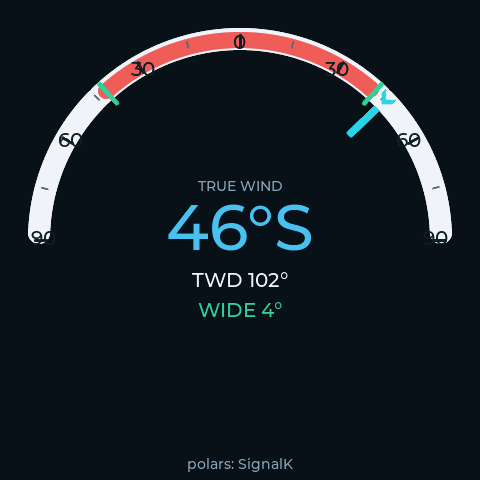
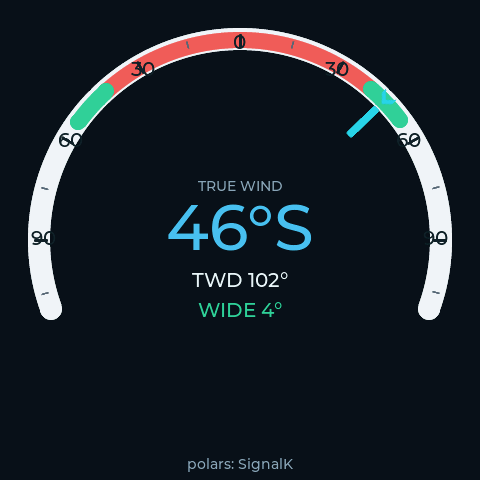
feat(wind-steer): 220-deg working-zone arc, target sectors, downwind verified
Implement the deferred refinements:
- Widen the arc to ~220 deg (past the beam each side) so it zooms into the
  working zone; tick/label range aligned to 15-deg multiples so the 0/30/60/90
  majors land on real ticks.
- Replace the thin laylines with green TARGET sectors (the "sail here" band)
  just outside the no-go on each side -- upwind it sits wide of optimal
  (footing), downwind tighter (hotter). Band width conveys tolerance; a future
  polar-table fetch can size it from the beat angle across the working TWS range.
- Verified the downwind flip: bottom semicircle, stern no-go wedge, run-target
  sectors, and the steer cue (HIGH/DEEP) render correctly.

Verified: pre-commit clean, esp32-4848s040 builds; rendered upwind + downwind
at 480/800/1024.

diff --git a/src/ui/screen_wind_steer.cpp b/src/ui/screen_wind_steer.cpp
@@ -28,8 +28,8 @@ static lv_obj_t *s_root = nullptr;
 static lv_obj_t *band_top = nullptr;   // white band, upper semicircle (upwind)
 static lv_obj_t *band_bot = nullptr;   // white band, lower semicircle (downwind)
 static lv_obj_t *nogo = nullptr;       // red no-go wedge (dynamic angles)
-static lv_obj_t *lay_a = nullptr;      // layline mark A (rotating)
-static lv_obj_t *lay_b = nullptr;      // layline mark B (rotating)
+static lv_obj_t *target_a = nullptr;   // green target sector, starboard (dynamic)
+static lv_obj_t *target_b = nullptr;   // green target sector, port (dynamic)
 static lv_obj_t *wind_mark = nullptr;  // live true-wind marker (rotating)
 static lv_obj_t *ticks_top = nullptr;  // tick+label group for the upper half
 static lv_obj_t *ticks_bot = nullptr;  // tick+label group for the lower half
@@ -115,8 +115,10 @@ static lv_obj_t *build_ticks(bool top) {
     lv_obj_clear_flag(g, LV_OBJ_FLAG_SCROLLABLE);
     lv_obj_clear_flag(g, LV_OBJ_FLAG_CLICKABLE);
     // theta off bow: top half spans -90..+90, bottom half spans +90..+270.
-    int lo = top ? -90 : 90;
-    int hi = top ? 90 : 270;
+    // ~220 deg working zone: a bit past the beam on each half. Range is aligned
+    // to multiples of 15 so the 30-deg majors (0/30/60/90) land on real ticks.
+    int lo = top ? -105 : 75;
+    int hi = top ? 105 : 285;
     for (int th = lo; th <= hi; th += 15) {
         bool major = (((th % 30) + 360) % 30) == 0;
         lv_obj_t *t = lv_obj_create(g);
@@ -166,8 +168,9 @@ lv_obj_t *build(lv_obj_t *parent) {
 
     // White bands for both halves (one shown at a time), then the dynamic
     // no-go wedge just inside, then the markers, then the centre readouts.
-    band_top = band_arc(182, 358, R, 22, theme.arc_band, LV_OPA_COVER);
-    band_bot = band_arc(2, 178, R, 22, theme.arc_band, LV_OPA_COVER);
+    // ~220 deg bands (centred on the bow / stern), zooming into the working zone.
+    band_top = band_arc(160, 20, R, 22, theme.arc_band, LV_OPA_COVER);
+    band_bot = band_arc(340, 200, R, 22, theme.arc_band, LV_OPA_COVER);
     lv_obj_add_flag(band_bot, LV_OBJ_FLAG_HIDDEN);
 
     nogo = band_arc(252, 288, R - 4, 16, theme.alarm, LV_OPA_70);  // dynamic in refresh
@@ -176,8 +179,10 @@ lv_obj_t *build(lv_obj_t *parent) {
     ticks_bot = build_ticks(false);
     lv_obj_add_flag(ticks_bot, LV_OBJ_FLAG_HIDDEN);
 
-    lay_a = rim_marker(5, 30, theme.good, false);  // green laylines
-    lay_b = rim_marker(5, 30, theme.good, false);
+    // Green target sectors: the "sail here" band just outside the no-go on each
+    // side (the applicable speed-range zone). Angles are set live in refresh.
+    target_a = band_arc(300, 314, R - 4, 16, theme.good, LV_OPA_COVER);
+    target_b = band_arc(226, 240, R - 4, 16, theme.good, LV_OPA_COVER);
     wind_mark = rim_marker(8, 40, 0x2bd4e8, true);  // bright cyan wind marker
 
     // Centre readouts.
@@ -222,8 +227,6 @@ static char s_last_twd[16] = {(char)0xFF};
 static char s_last_status[20] = {(char)0xFF};
 static char s_last_src[20] = {(char)0xFF};
 static int16_t s_last_wind_rot = INT16_MIN;
-static int16_t s_last_a_rot = INT16_MIN;
-static int16_t s_last_b_rot = INT16_MIN;
 static int8_t s_last_up = -1;
 
 static int16_t rot10(double deg) {
@@ -277,11 +280,18 @@ void refresh() {
     lv_arc_set_bg_angles(nogo, (int)norm360(center_lvgl - half), (int)norm360(center_lvgl + half));
     lv_arc_set_angles(nogo, (int)norm360(center_lvgl - half), (int)norm360(center_lvgl + half));
 
-    // Laylines at the edges of the no-go (theta = +/- opt for upwind; the optimal
-    // run angle each side for downwind).
-    double lay = up ? opt : opt;  // off-bow magnitude of the optimal heading line
-    set_rot_if_changed(lay_a, &s_last_a_rot, rot10(+lay));
-    set_rot_if_changed(lay_b, &s_last_b_rot, rot10(-lay));
+    // Green target sectors: the "sail here" band just outside the no-go on each
+    // side. With a polar present it hugs the optimal beat/gybe angle; the band
+    // width conveys the working tolerance (a future polar-table fetch can size it
+    // from the beat angle across the working TWS range). Upwind the band is wider
+    // than optimal (footing); downwind it is tighter than optimal (hotter).
+    double band = 12.0;
+    double t1 = up ? opt : (opt - band);
+    double t2 = up ? (opt + band) : opt;
+    lv_arc_set_bg_angles(target_a, (int)norm360(270 + t1), (int)norm360(270 + t2));
+    lv_arc_set_angles(target_a, (int)norm360(270 + t1), (int)norm360(270 + t2));
+    lv_arc_set_bg_angles(target_b, (int)norm360(270 - t2), (int)norm360(270 - t1));
+    lv_arc_set_angles(target_b, (int)norm360(270 - t2), (int)norm360(270 - t1));
 
     // Wind marker at the live true-wind angle.
     if (!isnan(twa_signed)) {